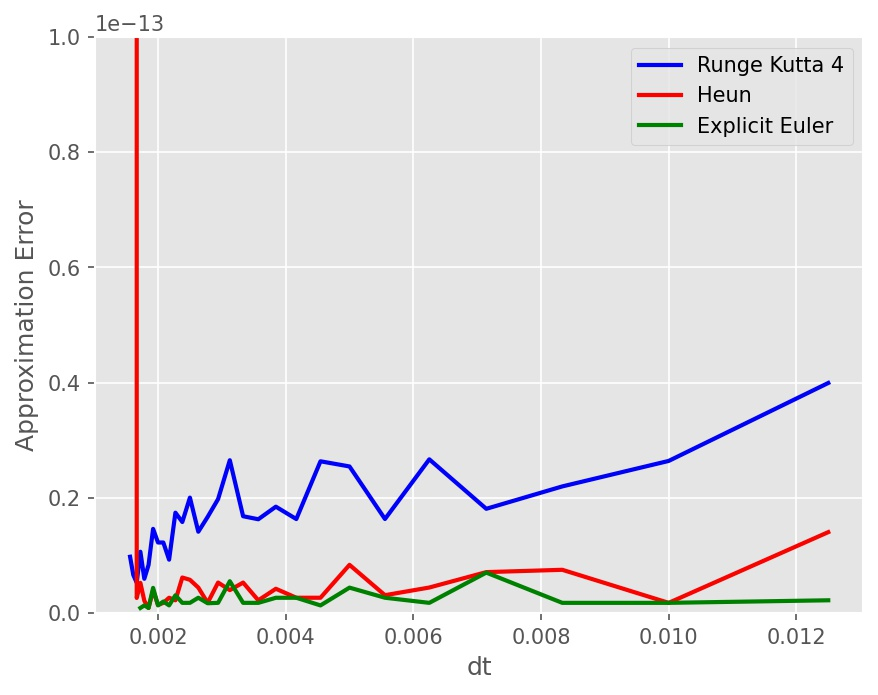
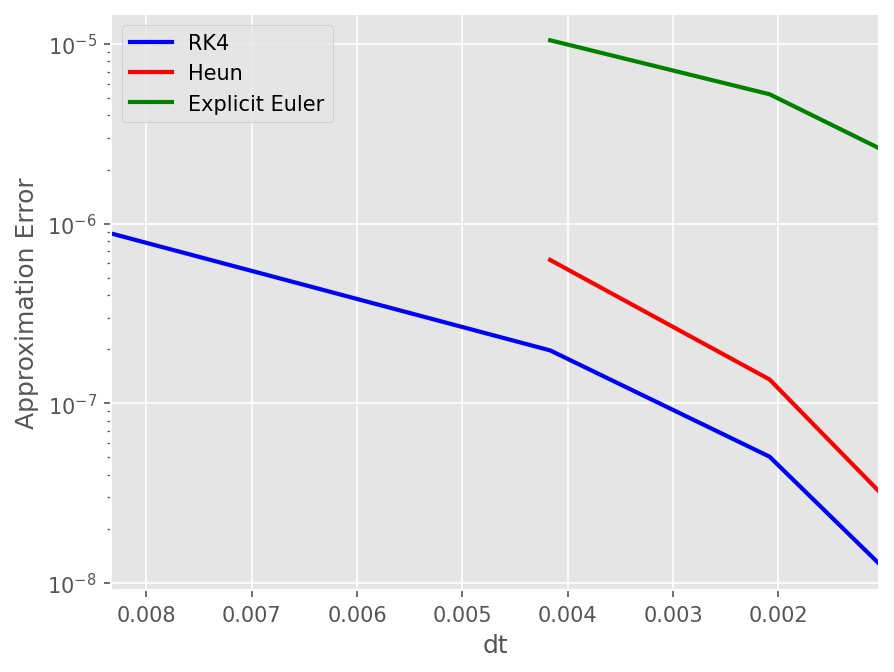
Plotting improved; Gamma set to 0.8

diff --git a/Heat_Equation/main.py b/Heat_Equation/main.py
@@ -9,7 +9,7 @@ import os
 methods = ("RK4", "HEUN", "EXPLICIT_EULER")
 T = 1.0
 steps = np.array([120, 240, 480, 960])
-# steps = np.linspace(80, 640, 29)
+# steps = np.linspace(80, 640, 2)
 dt = T/steps
 #dt = np.flip(dt)
 steps = steps.astype(int)
@@ -45,8 +45,7 @@ for i in range(len(steps)):
 style.use('ggplot') 
 fig2 = plt.figure()
 axes = fig2.add_axes([0.1,0.1,0.8,0.8])
-axes.set_ylim([0,2e-12])    # When gamma = 0
-# axes.set_ylim([0,1e-01])   # When gamma = 1
+axes.set_yscale('log')
 axes.set_xlim(max(dt),min(dt))
 
 xx = dt

diff --git a/Heat_Equation/solve_PDE.py b/Heat_Equation/solve_PDE.py
@@ -26,7 +26,7 @@ def solve_PDE(method, T, num_steps):
   dt = T / num_steps # time step size
   alpha = 3          # parameter alpha
   beta = 1.2         # parameter beta
-  gamma = 1.0          # parameter gamma (controls time dependence)
+  gamma = 0.8          # parameter gamma (controls time dependence)
 
   iteration = 0
   approx_error = 0.0
